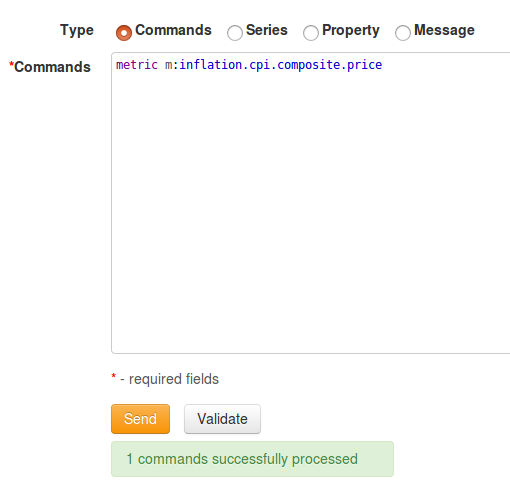
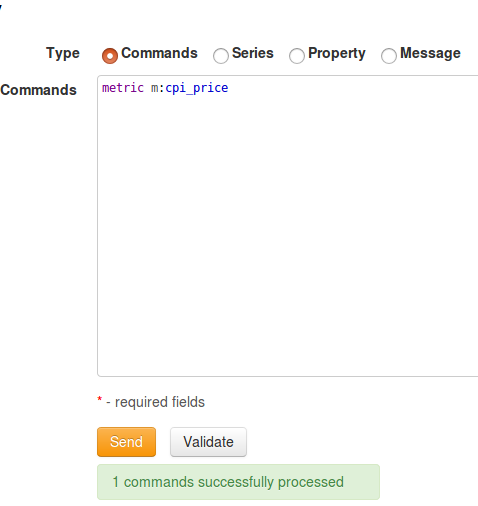
instruction finished

diff --git a/integration/spss/statistics/README.md b/integration/spss/statistics/README.md
@@ -220,7 +220,7 @@ Export query results into `weights.csv`.
 - Create new metric. Open ATSD web interface, go to **Metrics** - **Data entry** and execute following command
 
 ```
-metric m:inflation.cpi.composite.price
+metric m:cpi_price
 ```
  
 ![](resources/atsd_export_1.png)
@@ -249,11 +249,11 @@ metric m:inflation.cpi.composite.price
 
 ![](resources/atsd_export_6.png)
 
-- Open **File** menu and select **Export** - **Database...**
+- Open **File** menu and select **Export** -> **Database...**
 
 ![](resources/atsd_export_7.png)
 
-- Select `ATSD` data source and click **Next**. If there are no data sources visibile - create an ODBC-bridged connection to ATSD as described [here](../../odbc/README.md#configure-odbc-data-source) and open export window again
+- Select `ATSD` data source and click **Next**. If there are no data sources visible - create an ODBC-bridged connection to ATSD as described [here](../../odbc/README.md#configure-odbc-data-source) and open export window again
 
 ![](resources/atsd_export_8.png)
 
@@ -261,3 +261,48 @@ metric m:inflation.cpi.composite.price
 
 ![](resources/atsd_export_9.png)
 
+- Choose `cpi_price` table and click **Next**. The list of tables is based on the `tables=` property specified in the JDBC URL. If you don't see the desired table in the list, update ODBC data source as described [here](../../odbc/table-config.md) and re-open export wizard.
+
+![](resources/atsd_export_10.png)
+
+- Associate table columns and metric fields
+
+![](resources/atsd_export_11.png)
+
+Result should be similar as shown on screenshot. Click **Next**
+ 
+![](resources/atsd_export_12.png)
+ 
+ - Select **ODBC** - **Row-wise binding**, select **Paste the syntax** and click **Finish**
+ 
+![](resources/atsd_export_13.png)
+
+- Paste following script to opened window
+
+```
+SAVE TRANSLATE /TYPE=ODBC
+  /BULKLOADING BATCHSIZE=10000 METHOD=ODBC BINDING=ROW 
+  /CONNECT='DSN=ATSD;'
+  /ENCRYPTED
+  /MISSING=IGNORE
+  /TABLE='cpi_price' /APPEND
+  /KEEP=datetime, value, entity.
+```
+
+![](resources/atsd_export_14.png)
+
+- Right click on script window and select **Run All** to export data into ATSD
+
+![](resources/atsd_export_15.png)
+
+## Verify Insertion
+
+To check that data is successfully exported to ATSD go to the ATSD web interface, click **SQL** and execute the
+following query
+
+```sql
+SELECT entity, datetime, value 
+  FROM 'cpi_price'
+```
+
+![](resources/atsd_query_result.png)
